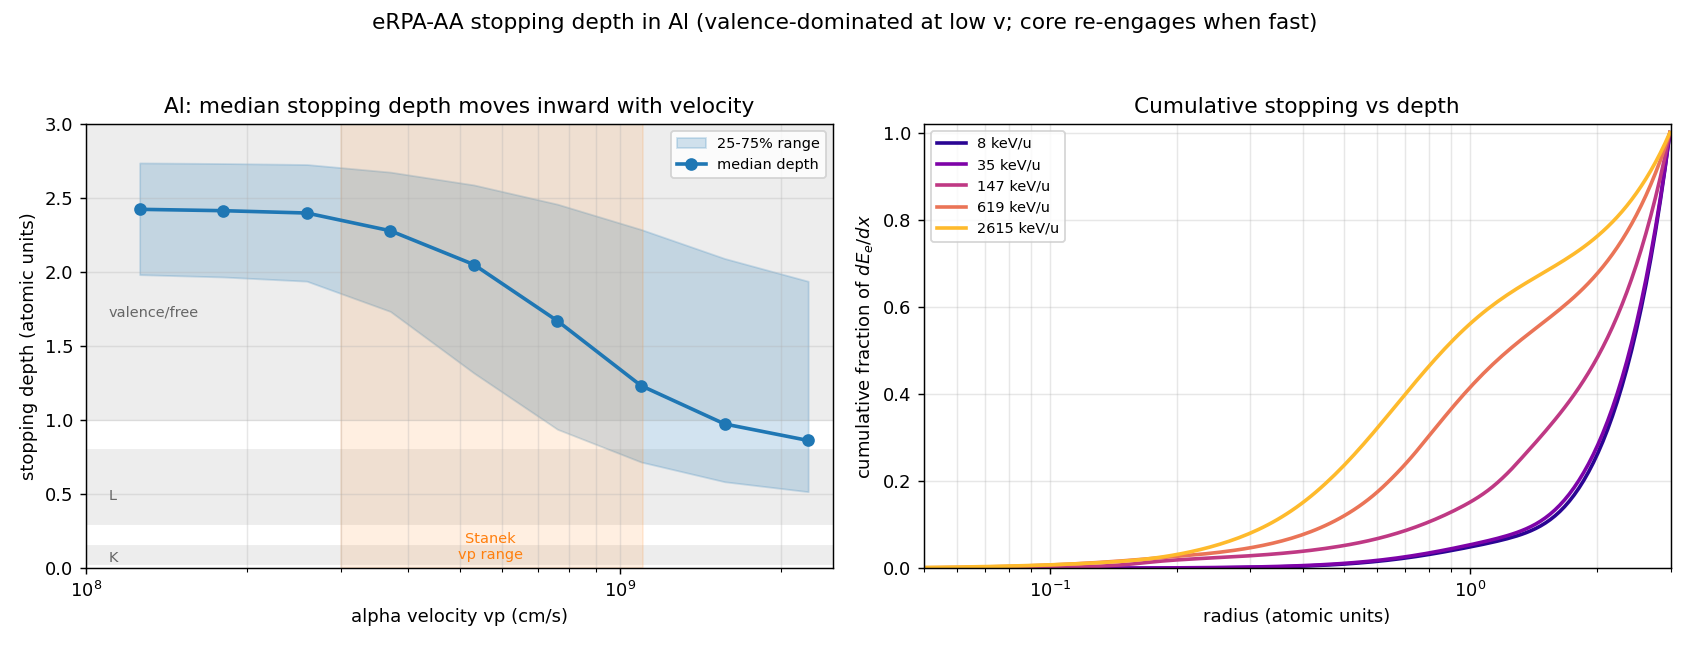
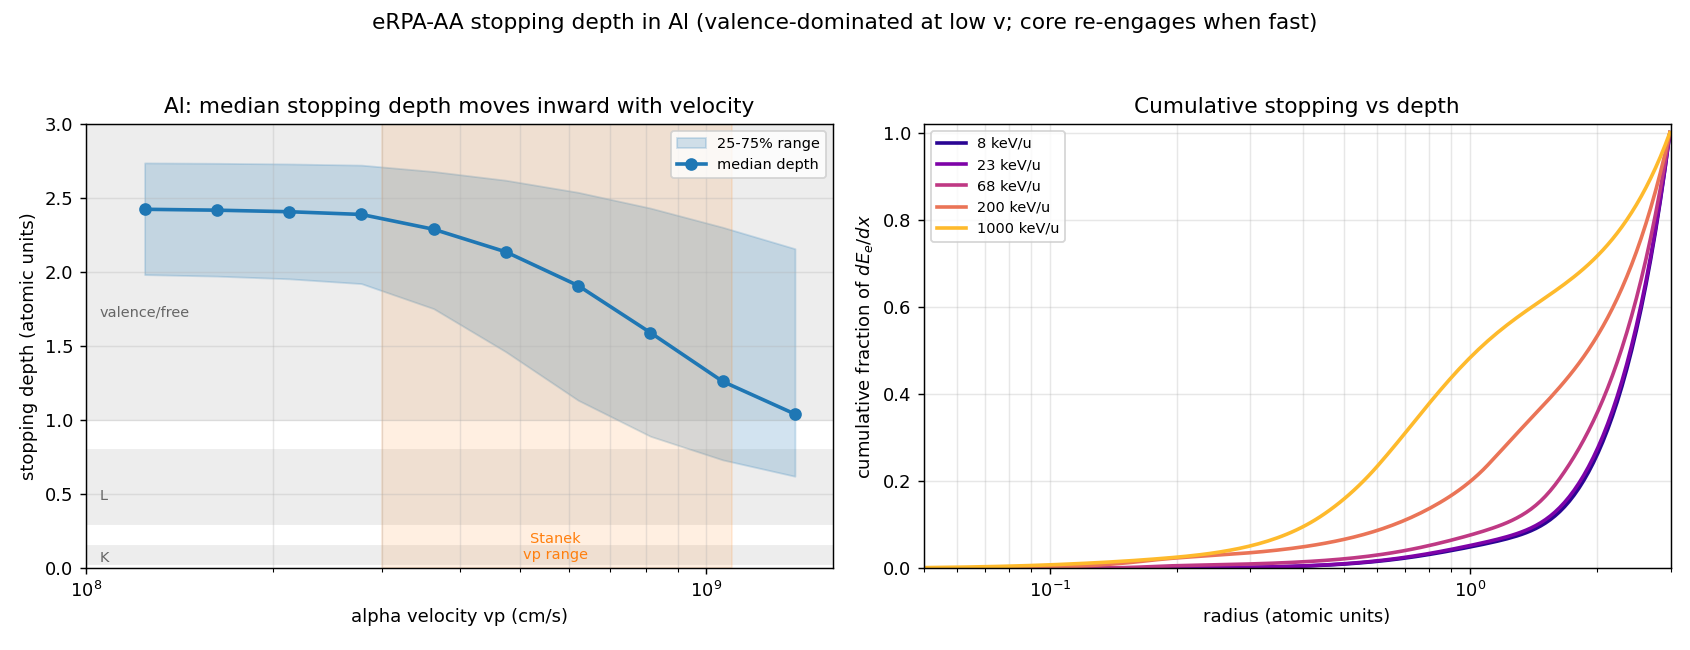
Simplify stopping_depth.py after the --mout fix (no slice-0 workaround)
The mre-truncation corruption is fixed in dedx.f, so the radial decomposition
is clean for all slices including the lowest. Removed the drop-first-slice
workaround; the full curve is smooth and monotonic (valence-dominated at low
v, median depth moving inward as the projectile speeds up).

diff --git a/stopping_depth.py b/stopping_depth.py
@@ -19,20 +19,12 @@ cm/s) the median depth is the valence/free + outer-L region, NOT the deep K-shel
 so the AA-vs-TD-DFT-MD gap near the peak is a valence/free-electron treatment
 difference, not deep-core over-counting.
 
-KNOWN DIAGNOSTIC CAVEAT (investigated June 2026): the radial-distribution output
-(dedx --mout=1, arrays rdedx/cdedx) carries a spurious inner contribution at the
-SINGLE LOWEST energy grid point (ie=1, e0=emin).  It is an edge artifact of the
-mout diagnostic only:
-  * it tracks emin exactly (same physical velocity is clean as the 2nd grid point
-    but artifacted as the 1st), so it is not a physical velocity threshold;
-  * it is NOT the binding correction (icb=0 leaves it unchanged) and NOT the
-    stopping-table resolution (the table grid is fixed, 100..1e-4 MeV/u);
-  * the INTEGRATED stopping in dedx.dat is unaffected -- matched-velocity totals
-    are grid-independent -- so all stopping curves / experimental comparisons stand.
-We therefore set emin well below the analysis range and DROP the first slice.
+(The radial-output corruption at coarse energy grids -- a mre=mep/nre truncation
+bug that let high-energy slices overwrite low-energy radial columns -- was fixed
+in dedx.f; the decomposition is now clean and grid-independent for all slices.)
 
 Run after:  python dedx.py --zt=13 --zp=2 --d=2.7 --t=1 --aa=2 --nuc=0 --mout=1 \
-                           --od=/tmp/aldepth --emin=0.004 --emax=5 --mep=145
+                           --od=/tmp/aldepth --emin=0.008 --emax=5 --mep=49
 """
 import numpy as np
 import matplotlib
@@ -43,11 +35,8 @@ import rd
 VP = lambda E_amu: 1.389e9 * np.sqrt(E_amu)          # cm/s from MeV/amu (alpha)
 d, r = rd.rcdedx('/tmp/aldepth')
 rad = d[0]
-rho4pir2 = d[1]
-M = np.concatenate([[0], np.cumsum(0.5 * (rho4pir2[1:] + rho4pir2[:-1]) * np.diff(rad))])
-Z = M[-1]
-sel = list(range(1, r.shape[1]))                     # DROP slice 0 (ie=1 edge artifact)
-Evals = np.array([r[0, i, 0] for i in sel])
+nE = r.shape[1]
+Evals = np.array([r[0, i, 0] for i in range(nE)])
 vp = VP(Evals)
 
 
@@ -59,28 +48,28 @@ def quantile_depth(i, q):
 fig, (axL, axR) = plt.subplots(1, 2, figsize=(13, 5))
 
 # left: median stopping depth (with 25-75% band) vs velocity, shell bands
-r50 = np.array([quantile_depth(i, 0.5) for i in sel])
-r25 = np.array([quantile_depth(i, 0.25) for i in sel])
-r75 = np.array([quantile_depth(i, 0.75) for i in sel])
+r50 = np.array([quantile_depth(i, 0.5) for i in range(nE)])
+r25 = np.array([quantile_depth(i, 0.25) for i in range(nE)])
+r75 = np.array([quantile_depth(i, 0.75) for i in range(nE)])
 for y0, y1, lab in [(0.03, 0.15, 'K'), (0.3, 0.8, 'L'), (1.0, 2.99, 'valence/free')]:
     axL.axhspan(y0, y1, color='0.93', zorder=0)
-    axL.text(1.1e8, np.sqrt(y0 * y1), lab, fontsize=8, color='0.4', va='center')
+    axL.text(1.05e8, np.sqrt(y0 * y1), lab, fontsize=8, color='0.4', va='center')
 axL.fill_between(vp, r25, r75, color='tab:blue', alpha=0.2, label='25-75% range')
 axL.plot(vp, r50, 'o-', color='tab:blue', lw=2, label='median depth')
 axL.axvspan(3e8, 1.1e9, color='tab:orange', alpha=0.12)
 axL.text(5.7e8, 0.06, 'Stanek\nvp range', fontsize=8, color='tab:orange', ha='center')
-axL.set_xscale('log'); axL.set_xlim(1e8, 2.5e9); axL.set_ylim(0, 3.0)
+axL.set_xscale('log'); axL.set_xlim(1e8, 1.6e9); axL.set_ylim(0, 3.0)
 axL.set_xlabel('alpha velocity vp (cm/s)')
 axL.set_ylabel('stopping depth (atomic units)')
 axL.set_title('Al: median stopping depth moves inward with velocity')
 axL.legend(fontsize=8, loc='upper right'); axL.grid(alpha=.3, which='both')
 
 # right: cumulative fraction vs radius for a few velocities
-pick = [sel[0], sel[2], sel[4], sel[6], sel[8]]
+pick = [0, 2, 4, 6, 9]
 cmap = plt.cm.plasma(np.linspace(0.05, 0.85, len(pick)))
 for c, i in zip(cmap, pick):
     cum = r[2, i, :] / r[2, i, -1]
-    axR.plot(rad, cum, color=c, lw=2, label='%.0f keV/u' % (r[0, i, 0] * 1e3))
+    axR.plot(rad, cum, color=c, lw=2, label='%.0f keV/u' % (Evals[i] * 1e3))
 axR.set_xscale('log'); axR.set_xlim(0.05, 3.0); axR.set_ylim(0, 1.02)
 axR.set_xlabel('radius (atomic units)')
 axR.set_ylabel('cumulative fraction of $dE_e/dx$')
@@ -90,10 +79,8 @@ axR.legend(fontsize=8, loc='upper left'); axR.grid(alpha=.3, which='both')
 fig.suptitle('eRPA-AA stopping depth in Al (valence-dominated at low v; core re-engages when fast)')
 fig.tight_layout(rect=[0, 0, 1, 0.95])
 fig.savefig('stopping_depth.pdf'); fig.savefig('stopping_depth.png', dpi=130)
-print('wrote stopping_depth.pdf / .png  (first slice ie=1 dropped)\n')
+print('wrote stopping_depth.pdf / .png\n')
 print(' vp(cm/s)   E(keV/u)   r(50%% of dEdx)  shell')
-for i in sel:
-    cum = r[2, i, :] / r[2, i, -1]
-    r50i = np.interp(0.5, cum, rad)
-    sh = 'L/inner' if r50i < 1.0 else 'valence/free'
-    print('  %.2e   %6.1f      %.3f a.u.    %s' % (VP(r[0, i, 0]), r[0, i, 0] * 1e3, r50i, sh))
+for i in range(nE):
+    sh = 'L/inner' if r50[i] < 1.0 else 'valence/free'
+    print('  %.2e   %6.1f      %.3f a.u.    %s' % (vp[i], Evals[i] * 1e3, r50[i], sh))
